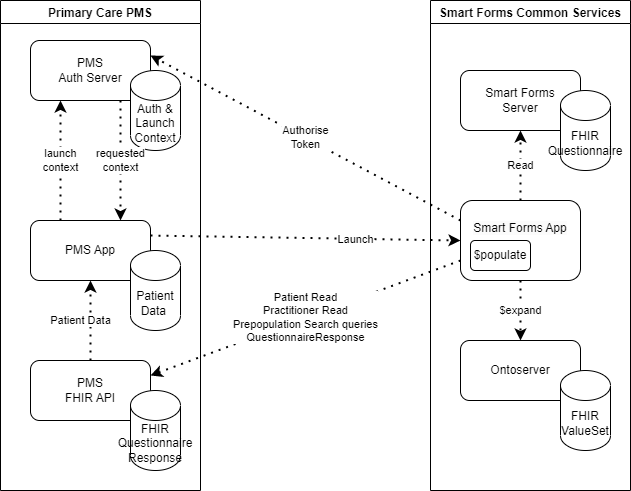
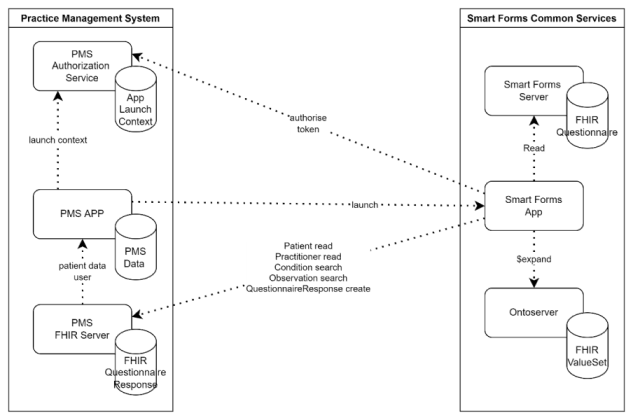
Update guidance

diff --git a/input/pagecontent/reference-implementation.md b/input/pagecontent/reference-implementation.md
@@ -18,7 +18,7 @@ A Questionnaire-hosting Forms Server API that supports the [$assemble](http://hl
 
 #### Clinical System Simulator
 
-Try it out here: <https://launch.smartforms.io>
+Try it out here: <https://ehr.smartforms.io/>
 
 A simple simulator showing a patient summary screen with a launch button to perform an [Aboriginal and Torres Strait Islander Health Check](Questionnaire-AboriginalTorresStraitIslanderHealthCheck.html). The patient and user are preselected but can be changed on the Configuration page. The simulator is supported by the [SMART Launcher](https://launch.smarthealthit.org/).
 
@@ -27,8 +27,8 @@ A simple simulator showing a patient summary screen with a launch button to perf
 The high-level architecture of the Smart Forms solution is shown in Figure 1. The solution consists of a Patient Management System (PMS) integrated with Smart Forms Common Services. 
 The PMS consists of:
 1. a PMS App;
-2. a PMS Auth Server; and
-3. a PMS FHIR API.
+2. a PMS Authorization Service; and
+3. a PMS FHIR Server.
 
 The Smart Forms Common Service is not limited to a single centralised deployment, it could be deployed within a jurisdiction, regionally or by vendor as deemed appropriate.  
 
@@ -41,30 +41,40 @@ The Smart Forms Common Service is not limited to a single centralised deployment
 The components that support the Smart Forms solution are outlined below.  
 #### PMS Components
 ##### PMS App
-The App may be deployed on-premise where the App and database servers are located within confines or control of the organisation. An on-premise App would normally be considered to be a desktop App, where the App executes on multiple workstations connected to a centralised database server. Alternatively, an App may be cloud-based, where the App is deployed on infrastructure hosted on cloud infrastructure, in secure data centres. A cloud-based App would normally be accessed using public networks and an internet browser. Some Apps may use a hybrid of on-premise and cloud infrastructure.
-In the context of the Smart Forms solution, each App has a dependency on the PMS Auth Server to stash launch context details such as the current patient, current user and the form to be filled, which can be retrieved later by the Smart Forms App. 
-The PMS also has an obvious dependency on the Smart Forms App which provides the standards-based assessment form data capture functionality provided by the Smart Forms solution.
+The PMS App is an existing practice management system provided by a PMS software provider. The system may be deployed on-premise where the application and database servers are located within confines or control of the primary care organization. An on-premise system would normally considered a desktop application, where the application executes on multiple workstations connected to a centralized database server. There are also some systems using a hybrid of on-premise and cloud infrastructure.
 
-##### PMS Auth Server
-The PMS Auth Server is a standards-based Authorisation Server that enables a third-party application such as the Smart Forms App to request access to patient data. The Smart Forms App was originally launched by a user of an App within the context of a patient’s health record, data associated with this context is provided by the App and stashed temporarily using a unique launch identifier prior to the Smart Forms App launch.
-The PMS Auth Server has a dependency on the App where it is necessary to retrieve any additional launch context requested by the Smart Forms App that wasn’t included in the context originally stashed, such as an episode identifier.
+In the context of the Smart Health Check solution, the PMS App has a dependency on the PMS Authorization Service to stash launch context details such as the current patient, current user, current patient visit and the health check form to be filled, which can be retrieved later by the Smart Forms App. 
 
-##### PMS FHIR API
-The PMS FHIR API is a standards-based Application Programming Interface (API) that enables patient health record data to be securely accessed from the PMS App. The API uses the HL7 FHIR standard that specifies both the capability and types of data that can be utilised via the API. The FHIR API may also allow patient health content to be stored back within the PMS, which may be supported natively within the PMS App database or as a separate datastore of FHIR data.
-The PMS FHIR API has a dependency on the PMS App where it accesses the patient health record data from the App’s database.
-The FHIR API interaction requirements are described later in Section 3 but are also summarised below.
+The PMS also has a dependency on the Smart Forms App, which provides the standards-based health check data capture functionality provided by the Smart Health Check solution.
+
+##### PMS Authorization Service
+The PMS Authorization Service is an OAuth authorisation server that supports SMART App Launch context, which enables a third-party application, such as the Smart Forms App, to request access to patient data in the context of a user’s workflow.
+
+##### PMS FHIR Server
+The PMS FHIR Server is a standards-based Application Programming Interface (API) that enables personal health information to be securely retrieved from the PMS. The FHIR Server uses the HL7 FHIR standard that specifies the type of data and behaviour that can be provided by the API. The FHIR Server also allows health information, such as a health check response (i.e. FHIR QuestionnaireResponse) to be stored in the PMS, which may be supported natively within the PMS data store or as a separate FHIR data repository.
+
+The PMS FHIR Server has a dependency on the PMS App where it accesses the patient data and user records from the PMS data store. 
 
 #### Smart Forms Common Services Components
 ##### Smart Forms App
-The Smart Forms App is a Browser-based application that uses industry standards to provide a common user interface for the Smart Forms solution. The Smart Forms App uses a Single Page Application paradigm that allows the application to be downloaded using a standard modern web browser and executed without any application logic being executed on a web server. The Smart Forms App, uses the HL7 Structured Data Capture (SDC) Implementation Guide (IG) to implement a rendering of forms defined using FHIR Questionnaire resources and represent the captured data using FHIR QuestionnaireResponse resources. The SDC IG provides guidance and extensions that enables the Smart Forms App to provide advanced rending, pre-population, dynamic behaviour and forms modularisation in a standardised manner. This enables the Smart Forms App to be used for any health assessment form defined in accordance with the HL7 Structured Data Capture (SDC) Implementation Guide (IG).
-The Smart Forms App has a dependency on the PMS Auth Server to request access to the PMS with the permissions specified as part of the launch context. 
-The Smart Forms App also has a dependency on the PMS FHIR API to access the patient health record data it requires to prepopulate the assessment form and store the captured form data where required. 
-The Smart Forms App also has a dependency on the Smart Forms Server for managing the assessment forms as a FHIR Questionnaire resource.
-The Smart Forms App also has a dependency on the Ontoserver terminology server that maintains the code systems and value sets required in an assessment form and assist providing filtered lists for large complex concepts such as diagnoses and body sites.
+The Smart Forms App is a browser-based Web application that uses industry standards to provide a common user interface for the Smart Health Check solution. The Smart Forms App uses a Single Page Application (SPA) paradigm that allows a modern JavaScript enabled Web browser to host the application without any logic executed or patient data stored on the server. 
+
+The Smart Forms App, uses the HL7 Structured Data Capture (SDC) Implementation Guide (IG) to implement a rendering of health check forms defined using FHIR Questionnaire resources and represent the data captured using FHIR QuestionnaireResponse resources. The SDC IG provides guidance and extensions that enables the Smart Forms App to provide advanced rending, pre-population, dynamic behaviour and forms modularisation in a standardised manner. This enables the Smart Forms App to be used for any compatible health check form defined in accordance with the HL7 Structured Data Capture (SDC) Implementation Guide (IG).
+
+The Smart Forms App has a dependency on the PMS Authorization Service to request access to the PMS patient data with permissions authorised as part of the authorization flow. 
+
+The Smart Forms App has a dependency on the PMS FHIR Server to access the patient data required to pre-populate the health check form and store the captured health check data.
+
+The Smart Forms App has a dependency on the Smart Forms Server that provides the health check forms as a FHIR Questionnaire resource. Since the Smart Forms App is hosted within the PMS User agent, the request to retrieve the Questionnaire resource originates from the PMS User agent to the Smart Forms Server over the public internet.
+
+The Smart Forms App also has a dependency on the Ontoserver terminology server that maintains the value sets required in a health check form and expand filtered lists of coded concepts such as diagnoses and body sites. The Ontoserver requests that originate from the Smart Forms App will also be transported over the public internet.
+
 
 ##### Smart Forms Server
-The Smart Forms Server is an implementation of a FHIR Server specifically used to support the management of assessment forms represented as FHIR Questionnaire resources. The form server will also be used during the assessment form development to maintain reusable Questionnaire modules that can be assembled into large assessment forms that can be used natively by the Smart Forms App.
+The Smart Forms Server is an implementation of a FHIR Server specifically used to support the management of health check forms represented as FHIR Questionnaire resources. 
+
+The Smart Forms Server will also be used during the health check form development to maintain reusable Questionnaire modules assembled into the combined health check form used by the Smart Forms App.
+
 
 ##### Ontoserver
-Ontoserver is a terminology server that uses a FHIR API to allow the Smart Forms App to access and maintain code systems and value sets as standard FHIR resources. Furthermore, Ontoserver provides standardised operations that enables the Smart Forms App to provide smart filtered lists of values for concepts such as diagnoses, medications and body sites.
-Ontoserver is able to make available the terminology required for filling in assessment forms. This includes SNOMED CT-AU and any terminology required by the Questionnaire that has been defined as FHIR resources.
+Ontoserver is a terminology server with a FHIR API that allows the Smart Forms App to access FHIR ValueSet resourcess used in health checks and evaluate filtered expansions at runtime based on user entered lookahead requests for concepts such as diagnoses, medications and body sites.
